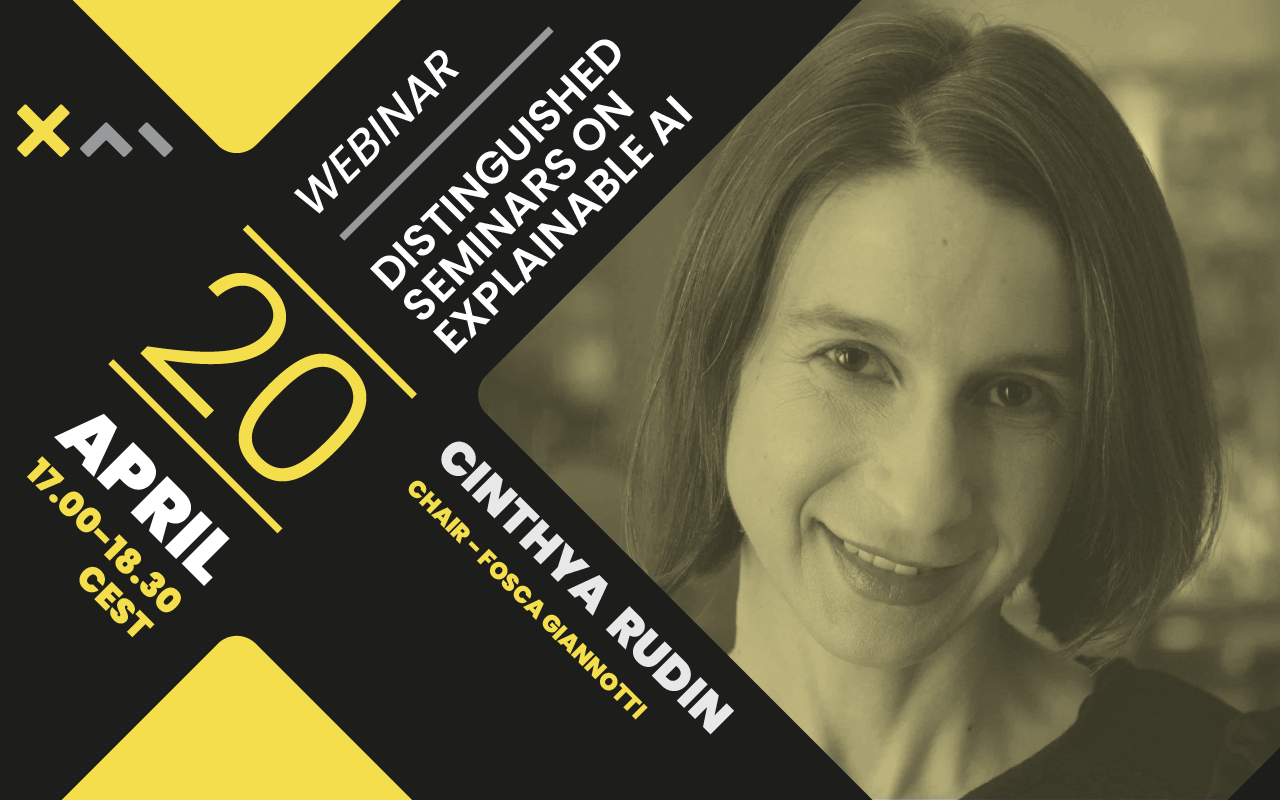
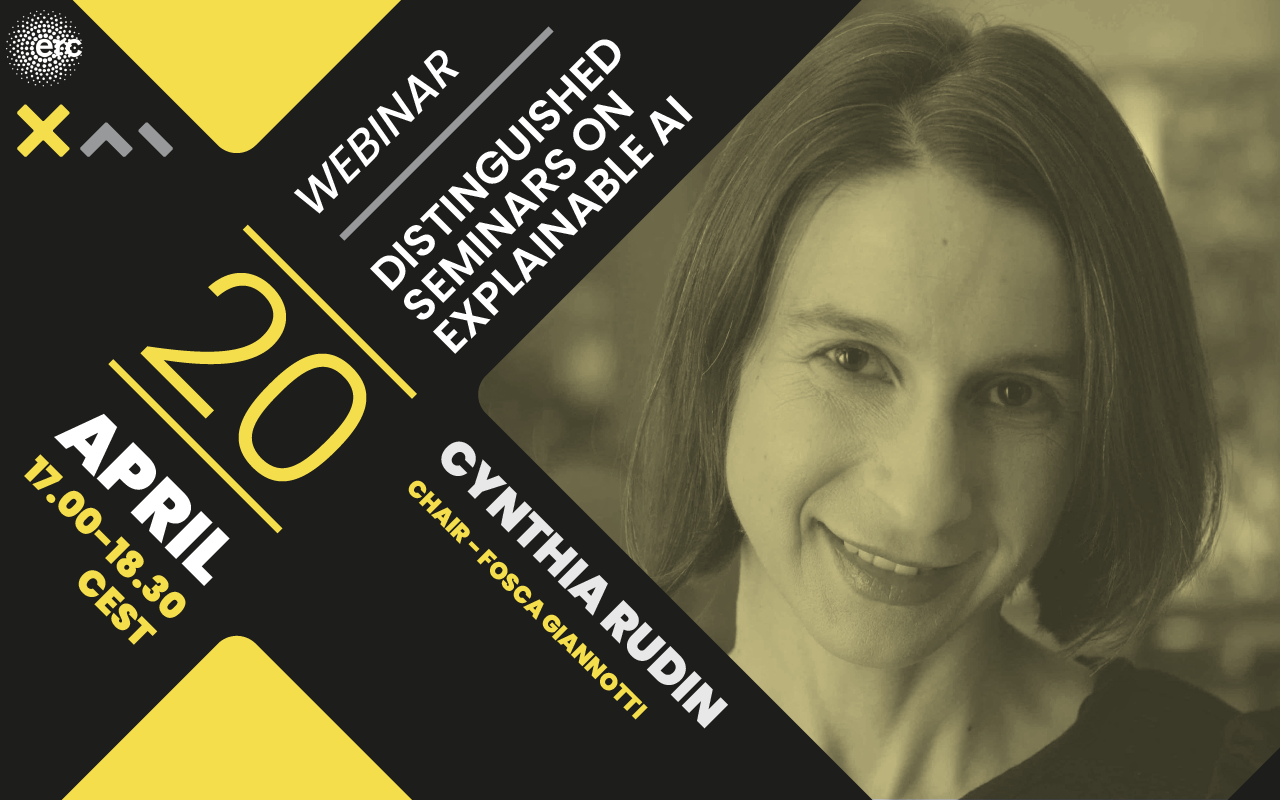
seminari aggiornati

diff --git a/_demo/dist-seminars.html b/_demo/dist-seminars.html
@@ -78,11 +78,11 @@
                   <div class="text-center align-items-center">
                     <div class="px-lg-4 py-lg-2 px-4 py-2">
                       <div class="mt-lg-4 mt-5">
-                        <h1 class="display-1">20</h1>
+                        <h1 class="display-1">22</h1>
                         <h3 class="text-uppercase">April</h3>
                       </div>
                       <div class="px-lg-2 mt-lg-4 px-2 mt-3">
-                        <p>Cinthya Rudin</p>
+                        <p>Cynthia Rudin</p>
                       </div>
                     </div>
                   </div>
@@ -96,7 +96,7 @@
                         <h3 class="text-uppercase">May</h3>
                       </div>
                       <div class="px-lg-2 mt-lg-4 px-2 mt-3">
-                        <p>???</p>
+                        <p>-To be defined-</p>
                       </div>
                     </div>
                   </div>
@@ -124,7 +124,7 @@
                         <h3 class="text-uppercase">June</h3>
                       </div>
                       <div class="px-lg-2 mt-lg-4 px-2 mt-3">
-                        <p>???</p>
+                        <p>-To be defined-</p>
                       </div>
                     </div>
                   </div>
@@ -138,7 +138,7 @@
                         <h3 class="text-uppercase">July</h3>
                       </div>
                       <div class="px-lg-2 mt-lg-4 px-2 mt-3">
-                        <p>???</p>
+                        <p>-To be defined-</p>
                       </div>
                     </div>
                   </div>
@@ -147,38 +147,86 @@
         </div>
         <!-- seminars-->
         <div class="container mt-lg-5 mt-md-6 mt-5">
-          <!-- Rudin-->
+          <hr>
           <div class="row">
-            <div class="col-lg-8"><img class="img-fluid mb-lg-5 mb-md-5 mb-4" src="assets/images/seminars/seminar_01_rudin.png" alt="Cinthia Rudin"></div>
+            <div class="col-lg-8"><img class="img-fluid mb-lg-5 mb-md-5 mb-4" src="assets/images/seminars/seminar_01_rudin.png" alt="Cynthia Rudin">
+              <div class="accordion" id="accordionExample">
+                <div class="card border-0">
+                  <div class="card-header bg-yellow" id="headingOne"><a class="h5 mb-0 py-lg-4 px-lg-4 py-md-4 px-md-4 py-2 px-2 d-block" href="#" data-toggle="collapse" data-target="#collapseOne" aria-expanded="false" aria-controls="collapseOne">About this talk</a></div>
+                  <div class="collapse show" id="collapseOne" aria-labelledby="headingOne" data-parent="#accordionExample">
+                    <div class="py-lg-2 px-lg-2 bg-grayphite">
+                      <div class="card-body mt-2">
+                        <p>Let us consider a difficult computer vision challenge. Would you want an algorithm to determine whether you should get a biopsy, based on an xray? That's usually a decision made by a radiologist, based on years of training. We know that algorithms haven't worked perfectly for a multitude of other computer vision applications, and biopsy decisions are harder than just about any other application of computer vision that we typically consider. The interesting question is whether it is possible that an algorithm could be a true partner to a physician, rather than making the decision on its own. To do this, at the very least, we would need an interpretable neural network that is as accurate as its black box counterparts.</p>
+                        <p>This talk will discuss two approaches to interpretable neural networks: (1) case-based reasoning, where parts of images are compared to other parts of prototypical images for each class, and (2) neural disentanglement, using a technique called concept whitening. The case-based reasoning technique is strictly better than saliency maps, and the concept whitening technique provides a strict advantage over the posthoc use of concept vectors.</p>
+                      </div>
+                    </div>
+                  </div>
+                </div>
+                <div class="card border-0 mt-lg-5 mt-4">
+                  <div class="card-header bg-yellow" id="headingTwo"><a class="h5 mb-0 py-lg-4 px-lg-4 py-md-4 px-md-4 py-2 px-2 d-block" href="#" data-toggle="collapse" data-target="#collapseTwo" aria-expanded="false" aria-controls="collapseTwo">Cynthia Rudin - short bio</a></div>
+                  <div class="collapse" id="collapseTwo" aria-labelledby="headingTwo" data-parent="#accordionExample">
+                    <div class="py-lg-2 px-lg-2 bg-grayphite">
+                      <div class="card-body mt-2">
+                        <p>Cynthia Rudin is a professor of computer science, electrical and computer engineering, and statistical science at Duke University, and directs the Prediction Analysis Lab, whose main focus is in interpretable machine learning. She is also an associate director of the Statistical and Applied Mathematical Sciences Institute (SAMSI). Previously, Prof. Rudin held positions at MIT, Columbia, and NYU. She holds an undergraduate degree from the University at Buffalo, and a PhD from Princeton University.</p>
+                      </div>
+                    </div>
+                  </div>
+                </div>
+                <div class="card border-0 mt-lg-5 mt-4"></div>
+              </div>
+            </div>
             <div class="col-lg-4">
-              <p class="text-gray-500">Apr 20, 5.00pm - 6.30 CEST</p>
-              <h5>Clinical decision making and interpretable deep neural networks</h5>
+              <p class="text-gray-500">Apr 22, 5.00pm - 6.30pm CEST</p>
+              <h5>Interpretable Neural Networks for Computer Vision: Clinical Decisions that are Computer-Aided, not Automated</h5>
               <hr>
-              <p>Aptent taciti sociosqu ad litora torquent per con ubia nos inceptos himenaeos. Pellentesque eget scelerisque turpis et consequat enim uisque at.Consetetur lorem ipsum dolor sit amet, sadipscing elitr, sed diam nonumy eirmod tempor invidunt ut labore et dolore magna aliquyam erat, sed diam voluptua.</p>
+              <p>The talk will face the topic of clinical decision-making and interpretable deep neural networks. The main question is whether it is possible that an algorithm could be a true partner to a physician, rather than making the decision on its own. Two approaches will be discussed 1) case-based reasoning and 2) neural disentanglement, covering the advantages of a technique called concept whitening.</p>
               <hr>
               <ul class="list-unstyled">
-                <li><strong>Speaker</strong> Cinthyia Rudin</li>
                 <li><strong>Chair</strong> -  Fosca Giannotti</li>
-                <li><strong>Discussants</strong>  - ???, ???, ???</li>
+                <li><strong>Discussants</strong>  - Riccardo Guidotti, Luca Pappalardo, Cecilia Panigutti</li>
               </ul>
-              <hr><a href="#"><i class="m-2 fab fa-2x fa-youtube" aria-hidden="true"></i>live on youtube</a><br><a href="#"><i class="m-2 fab fa-2x fa-twitter"></i>follow on twitter</a>
+              <hr><a href="https://twitter.com/cynthiarudin" target="_blank"><i class="m-2 fab fa-2x fa-twitter"></i>follow on twitter</a>
             </div>
           </div>
           <!-- Rudin-->
+          <hr>
           <div class="row">
-            <div class="col-lg-8"><img class="img-fluid mb-lg-5 mb-md-5 mb-4" src="assets/images/seminars/seminar_02_Lecue.png" alt="Freddy Lecue"></div>
+            <div class="col-lg-8"><img class="img-fluid mb-lg-5 mb-md-5 mb-4" src="assets/images/seminars/seminar_02_lecue.png" alt="Freddy Lecue">
+              <div class="accordion" id="accordionExample">
+                <div class="card border-0">
+                  <div class="card-header bg-yellow" id="headingOne"><a class="h5 mb-0 py-lg-4 px-lg-4 py-md-4 px-md-4 py-2 px-2 d-block" href="#" data-toggle="collapse" data-target="#collapseOne" aria-expanded="false" aria-controls="collapseOne">About this talk (tbd)</a></div>
+                  <div class="collapse show" id="collapseOne" aria-labelledby="headingOne" data-parent="#accordionExample">
+                    <div class="py-lg-2 px-lg-2 bg-grayphite">
+                      <div class="card-body mt-2">
+                        <p>As artificial intelligence has become tightly intervened in the society having tangible consequences and influence, calls for explainability and interpretability of these systems has also become increasingly prevalent. Explainable AI (XAI) attempts to alleviate concerns of transparency, trust and ethics in AI by making them accountable, interpretable and explainable to humans. This workshop aims to encapsulate these concepts under the umbrella of Explainable Agency and bring together researchers and practitioners working in different facets of explainable AI from diverse backgrounds to share challenges, new directions and recent research in the field. We especially welcome research from fields including but not limited to artificial intelligence, human-computer interaction, human-robot interaction, cognitive science, human factors and philosophy.</p>
+                      </div>
+                    </div>
+                  </div>
+                </div>
+                <div class="card border-0 mt-lg-5 mt-4">
+                  <div class="card-header bg-yellow" id="headingTwo"><a class="h5 mb-0 py-lg-4 px-lg-4 py-md-4 px-md-4 py-2 px-2 d-block" href="#" data-toggle="collapse" data-target="#collapseTwo" aria-expanded="false" aria-controls="collapseTwo">Freddy Lecue - short bio</a></div>
+                  <div class="collapse" id="collapseTwo" aria-labelledby="headingTwo" data-parent="#accordionExample">
+                    <div class="py-lg-2 px-lg-2 bg-grayphite">
+                      <div class="card-body mt-2">
+                        <p>Dr Freddy Lecue (PhD 2008, Habilitation 2015) is the Chief Artificial Intelligence (AI) Scientist at CortAIx (Centre of Research & Technology in Artificial Intelligence eXpertise) @Thales in Montreal, Canada. He is also a research associate at Inria, in WIMMICS, Sophia Antipolis - France.</p>
+                        <p>His research area is at the frontier of intelligent / learning / reasoning systems, and Internet of Things.</p>
+                      </div>
+                    </div>
+                  </div>
+                </div>
+                <div class="card border-0 mt-lg-5 mt-4"></div>
+              </div>
+            </div>
             <div class="col-lg-4">
-              <p class="text-gray-500">Jun 15, 5.00pm - 6.30 CEST</p>
-              <h5>This is a good title</h5>
+              <p class="text-gray-500">Apr 22, 5.00pm - 6.30pm CEST</p>
+              <h5>The role of Knowledge Graph (tbd)</h5>
               <hr>
-              <p>Aptent taciti sociosqu ad litora torquent per con ubia nos inceptos himenaeos. Pellentesque eget scelerisque turpis et consequat enim uisque at.Consetetur lorem ipsum dolor sit amet, sadipscing elitr, sed diam nonumy eirmod tempor invidunt ut labore et dolore magna aliquyam erat, sed diam voluptua.</p>
+              <p>Explainable AI (XAI) attempts to alleviate concerns of transparency, trust and ethics in AI by making them accountable, interpretable and explainable to humans. This seminars aims to encapsulate these concepts under the umbrella of Explainable Agency and bring together researchers and practitioners working in different facets of explainable AI from diverse backgrounds to share challenges, new directions and recent research in the field.</p>
               <hr>
               <ul class="list-unstyled">
-                <li><strong>Speaker</strong> Freddy Lecue</li>
                 <li><strong>Chair</strong> -  Fosca Giannotti</li>
-                <li><strong>Discussants</strong>  - ???, ???, ???</li>
               </ul>
-              <hr><a href="#"><i class="m-2 fab fa-2x fa-youtube" aria-hidden="true"></i>live on youtube</a><br><a href="#"><i class="m-2 fab fa-2x fa-twitter"></i>follow on twitter</a>
+              <hr><a href="https://twitter.com/freddylecue" target="_blank"><i class="m-2 fab fa-2x fa-twitter"></i>follow on twitter</a>
             </div>
           </div>
         </div>

diff --git a/docs/dist-seminars.html b/docs/dist-seminars.html
@@ -82,7 +82,7 @@
                         <h3 class="text-uppercase">April</h3>
                       </div>
                       <div class="px-lg-2 mt-lg-4 px-2 mt-3">
-                        <p>Cinthya Rudin</p>
+                        <p>Cynthia Rudin</p>
                       </div>
                     </div>
                   </div>
